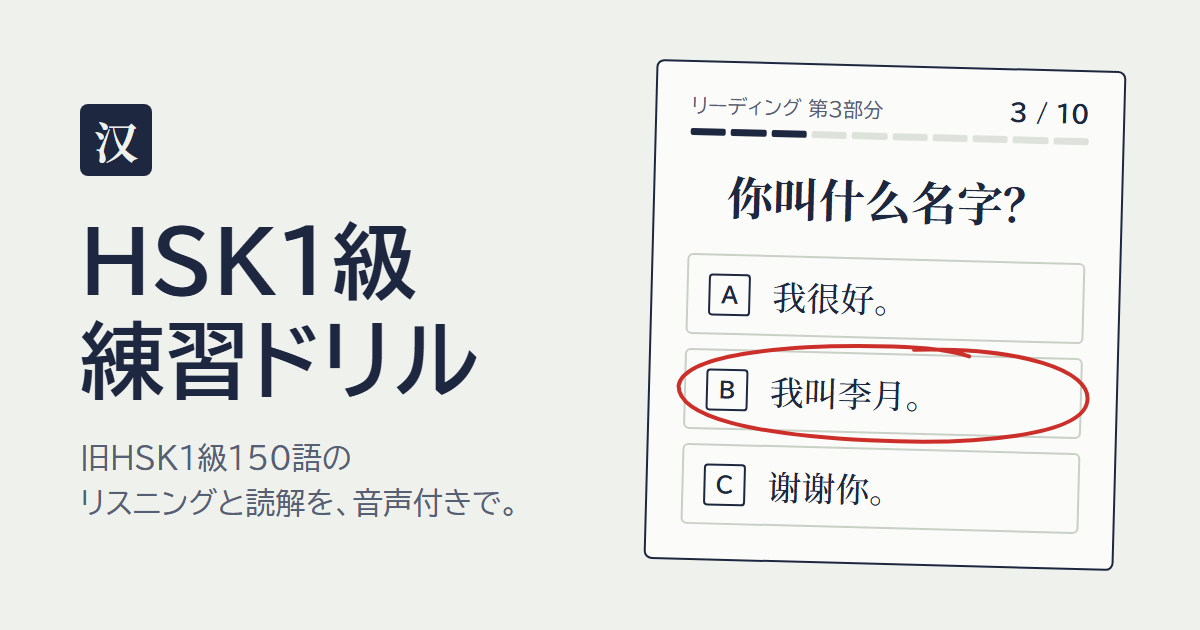
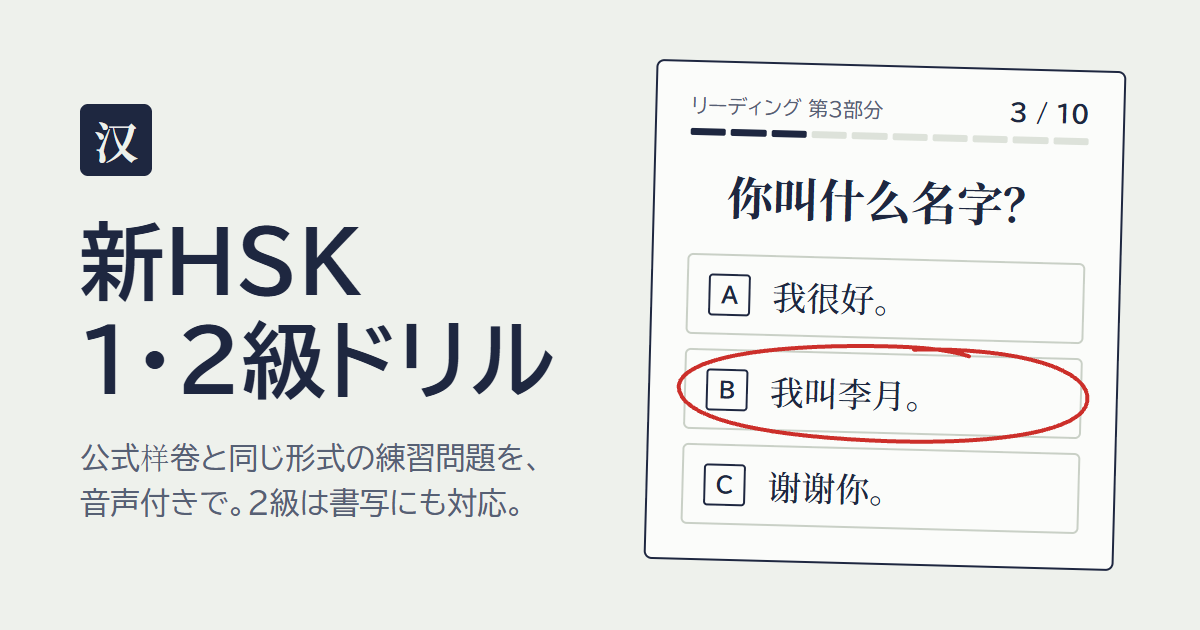
Update README and OGP image for HSK levels 1 and 2

Changed region(s): [[0.0617, 0.5127, 0.4625, 0.6333], [0.0617, 0.6937, 0.4317, 0.8444], [0.0617, 0.3317, 0.37, 0.4825]]

diff --git a/tools/ogp.html b/tools/ogp.html
@@ -34,8 +34,8 @@
 <body>
   <div>
     <div class="mark zh">汉</div>
-    <h1>HSK1級<br>練習ドリル</h1>
-    <p class="sub">旧HSK1級150語の<br>リスニングと読解を、音声付きで。</p>
+    <h1>新HSK<br>1・2級ドリル</h1>
+    <p class="sub">公式样卷と同じ形式の練習問題を、<br>音声付きで。2級は書写にも対応。</p>
   </div>
   <div class="sheet">
     <div class="q"><span>リーディング 第3部分</span><b>3 / 10</b></div>

diff --git a/README.md b/README.md
@@ -1,35 +1,61 @@
 # HSK-Learning
 
-旧HSK1級（150語）のリスニング・リーディング対策ができる、ブラウザだけで動く練習サイトです。
+新HSK（HSK 3.0）1級・2級のリスニング・リーディング・書写対策ができる、ブラウザだけで動く練習サイトです。
+語彙と出題形式は、中外语言交流合作中心の「HSK考试大纲」（2025年11月発表・2026年7月施行）と公式の样卷（サンプル問題）に合わせています。
 PC・スマホ・タブレットに対応しています。ビルドやサーバー側の処理は不要です。
+
+画面上部の「1級／2級」で級を切り替えます（選んだ級は保存されます）。
 
 ## できること
 
-- **練習問題**：本番の出題形式に沿った8つのパート（各10問）
-  - 🎧 リスニング（听力）
-    1. 判断（単語）… 単語を聞き、絵と合っていれば ✓、違えば ✗
-    2. 絵を選ぶ（文）… 文を聞いて、合う絵を選ぶ
-    3. 会話と絵 … 短い会話を聞いて、合う絵を選ぶ
-    4. 質問に答える … 文と質問（问）を聞いて、答えを選ぶ
-  - 📖 リーディング（阅读）
-    1. 判断（単語）… 単語と絵が合っているか判断
-    2. 文と絵 … 文を読んで、合う絵を選ぶ
-    3. 問いと答え … 問いに合う答えを選ぶ
-    4. 空欄補充 … 空欄に入る語を選ぶ
-- **模擬試験**：リスニング20問＋リーディング20問、200点満点（120点で合格）。音声は本番同様2回ずつ流れ、解答は最後にまとめて表示
-- **復習**：間違えた問題が自動でたまり、あとからまとめて解き直せる
-- **単語帳**：150語を漢字・ピンイン・日本語で検索、タップで発音を確認。日本語訳・ピンインの表示切り替えあり
-- **例文テーマ**：アークナイツ（明日方舟）のキャラクターが登場する例文（各部分12問）を収録。設定で「ふつう＋アークナイツ／ふつうのみ／アークナイツのみ」を切り替え
+### 1級（300語・40問）
+
+- 🎧 リスニング（听力）
+  1. 絵を選ぶ … 文を聞いて、合う絵を選ぶ
+  2. 応答を選ぶ … 問いかけを聞いて、合う答えを選ぶ
+  3. 会話と絵 … 短い会話を聞いて、合う絵を選ぶ
+  4. 質問に答える … 文と質問（问）を聞いて、答えを選ぶ
+- 📖 リーディング（阅读）
+  1. 文と絵 … 文を読んで、合う絵を選ぶ
+  2. 問いと答え … 問いに合う答えを選ぶ
+  3. 空欄補充 … 空欄に入る語を選ぶ
+  4. 短文と問い … 短い文を読んで、★の問いに答える
+
+### 2級（新出200語、1級と合わせて500語・60問）
+
+- 🎧 リスニング（听力）
+  1. 絵を選ぶ … 文を聞いて、合う絵を選ぶ
+  2. 会話と絵 … 短い会話を聞いて、合う絵を選ぶ
+  3. 会話と質問 … 会話と質問（问）を聞いて、答えを選ぶ
+- 📖 リーディング（阅读）
+  1. 文と絵 … 文を読んで、合う絵を選ぶ
+  2. 空欄補充 … 空欄に入る語を選ぶ
+  3. 文と応答 … 文に合う応答を選ぶ
+  4. 短文と問い … 短い文を読んで、★の問いに答える
+- ✍ 書写（书写）
+  1. 漢字の部分 … 語の意味とピンインを手がかりに、漢字の欠けている部分（部首など）を選ぶ
+  2. 漢字を書く … ピンインを見て、（　）に入る漢字を選ぶ（本番は手書き）
+
+### 共通
+
+- **練習問題**：各部分10問。答えるたびに解説（ピンイン・日本語訳）が出ます
+- **模擬試験**：公式样卷と同じ問題数（1級40問・2級60問）。音声は本番同様2回ずつ流れ、解答は最後にまとめて表示。
+  配点は公式の発表がないため、各セクション100点・合計の6割を合格の目安にしています
+- **単語ドリル**：単語と絵が合っているか ✓／✗ で答える（旧HSK1級の形式を残したもの）
+- **復習**：間違えた問題が級ごとに自動でたまり、あとからまとめて解き直せる
+- **単語帳**：その級の語を漢字・ピンイン・日本語で検索、タップで発音を確認。日本語訳・ピンインの表示切り替えあり
+- **例文テーマ**：アークナイツ（明日方舟）のキャラクターが登場する例文を収録。設定で「ふつう＋アークナイツ／ふつうのみ／アークナイツのみ」を切り替え
 - **設定**：例文テーマ、ピンイン表示、読み上げ速度（0.5〜1.2）、練習でも2回ずつ流すか、学習記録のリセット
 
 ベストスコア・復習リスト・設定はブラウザの `localStorage` に保存されます（端末ごと）。
+旧HSK1級版の記録は、初回表示時に1級の対応する部分へ引き継がれます。
 
 ## 音声について
 
 音声は Microsoft Edge TTS（女性：Xiaoxiao／男性：Yunxi）で事前に生成した MP3 を `audio/` に収録しています。
 収録音声がない文は、ブラウザの読み上げ機能（Web Speech API）で代わりに再生します。
 
-問題データ（`js/data.js`）を変更したら、音声を作り直してください。
+問題データ（`js/data.js`・`js/data2.js`）を変更したら、音声を作り直してください。
 
 ```powershell
 pip install edge-tts
@@ -39,21 +65,27 @@ pip install edge-tts
 python tools/make_audio.py
 ```
 
-- Python と Node.js が必要です（`tools/extract.js` で `data.js` から読み上げる文を抜き出します）
+- Python と Node.js が必要です（`tools/extract.js` でデータから読み上げる文を抜き出します）
 - 既存のファイルはスキップし、足りない音声だけを生成します
 - `js/audio-map.js`（文 → ファイルの対応表）は自動生成されるので、手で編集しないでください
 - 音声は速度 -15% で収録しており、アプリの速度設定 0.8 がこの等速にあたります
+
+## 問題を追加するとき
+
+復習リストは「部分＋問題の番号」で問題を覚えているので、各配列への追加は必ず**末尾**に行ってください（途中に入れると番号がずれます）。
 
 ## ファイル構成
 
 ```
 index.html          ページ本体
 css/style.css       スタイル
-js/data.js          語彙150語と問題データ
+js/data.js          1級：語彙300語と問題データ
+js/data2.js         2級：語彙200語と問題データ
 js/app.js           画面・出題・採点・音声再生のロジック
 js/audio-map.js     音声ファイルの対応表（自動生成）
 audio/              収録済み音声（MP3）
 tools/make_audio.py 音声生成スクリプト
-tools/extract.js    data.js から読み上げる文を抜き出す補助スクリプト
+tools/extract.js    data.js・data2.js から読み上げる文を抜き出す補助スクリプト
+tools/ogp.html      OGP画像（ogp.png）の元
 favicon.svg         アイコン
 ```
